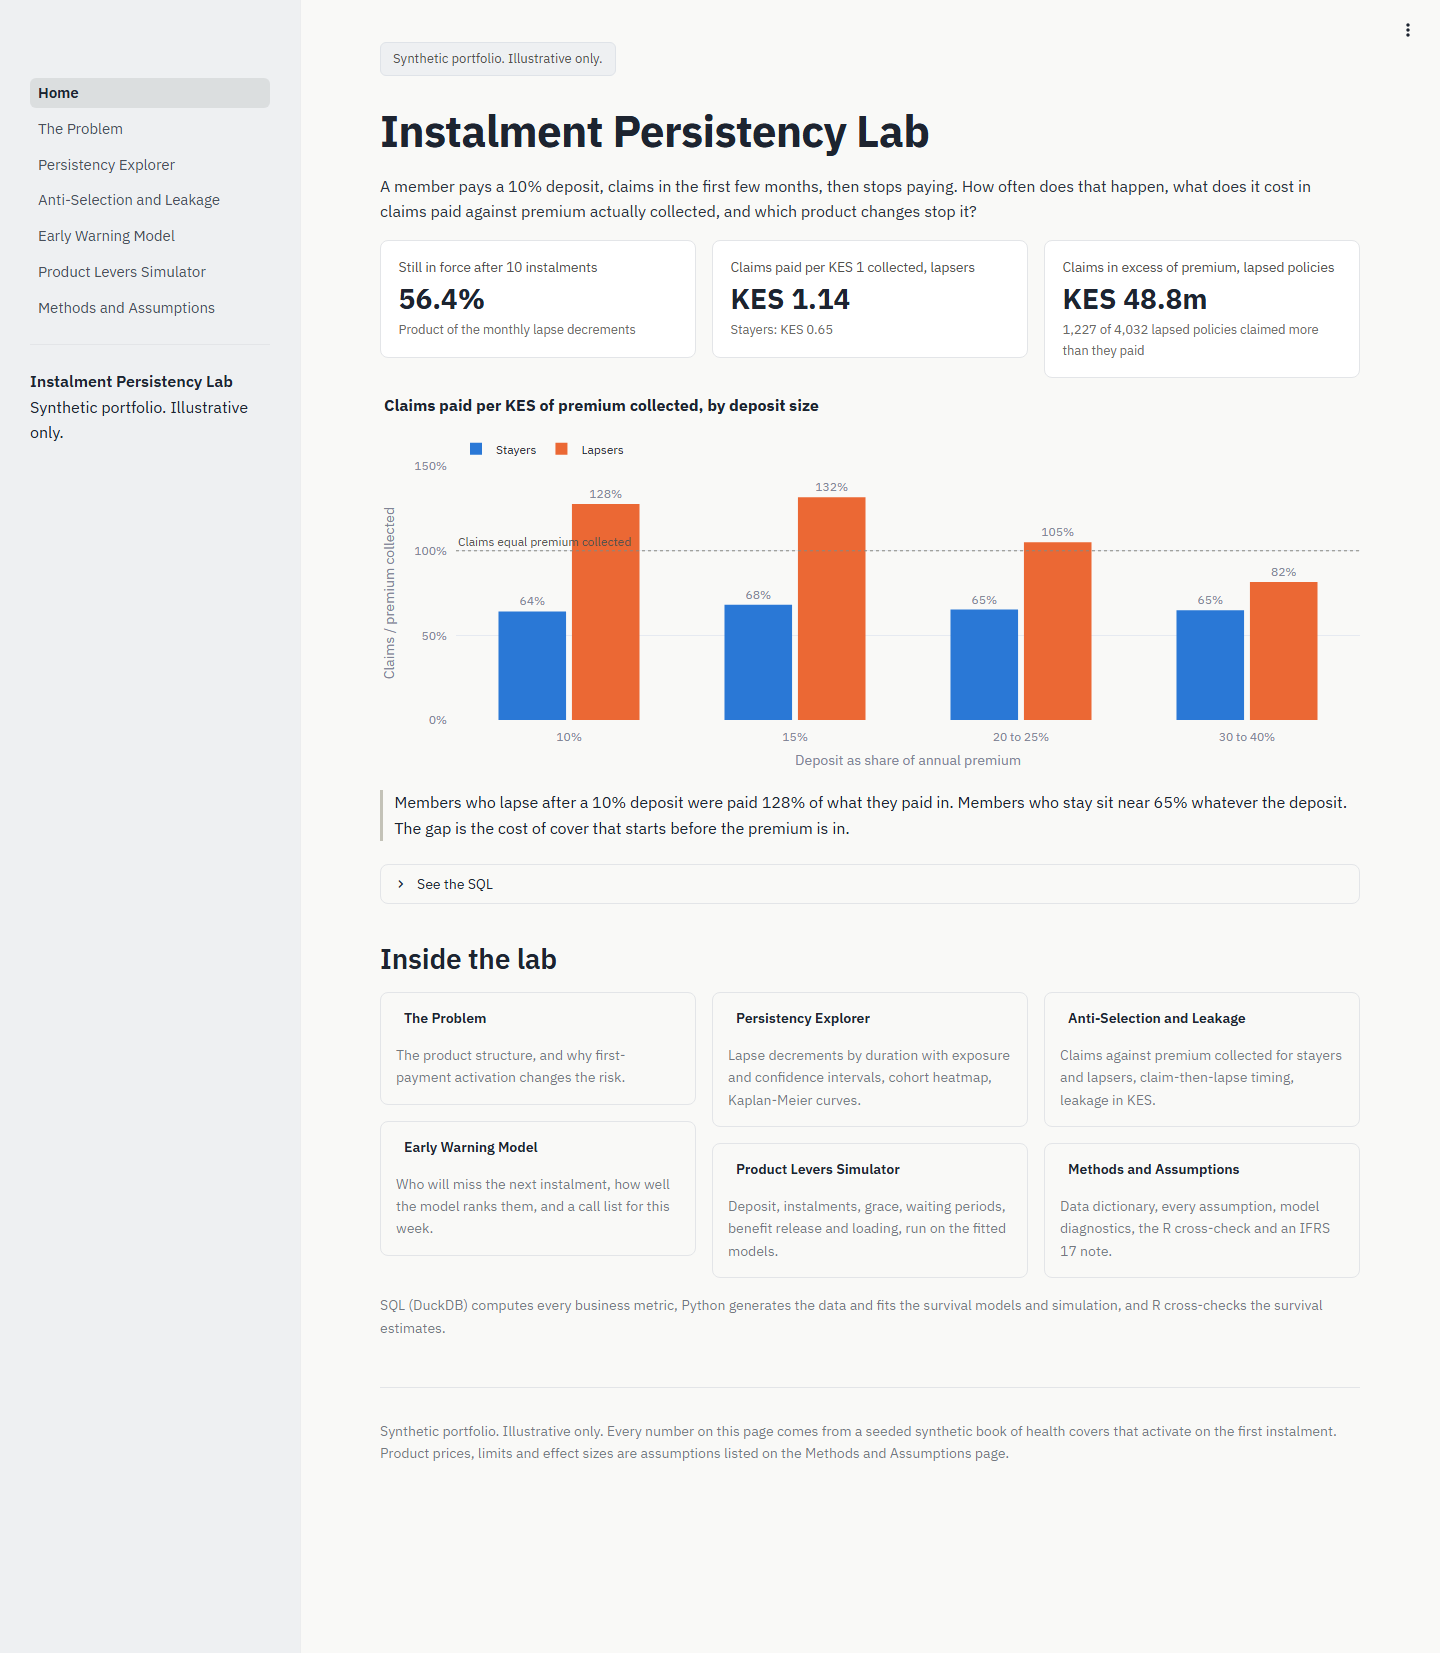
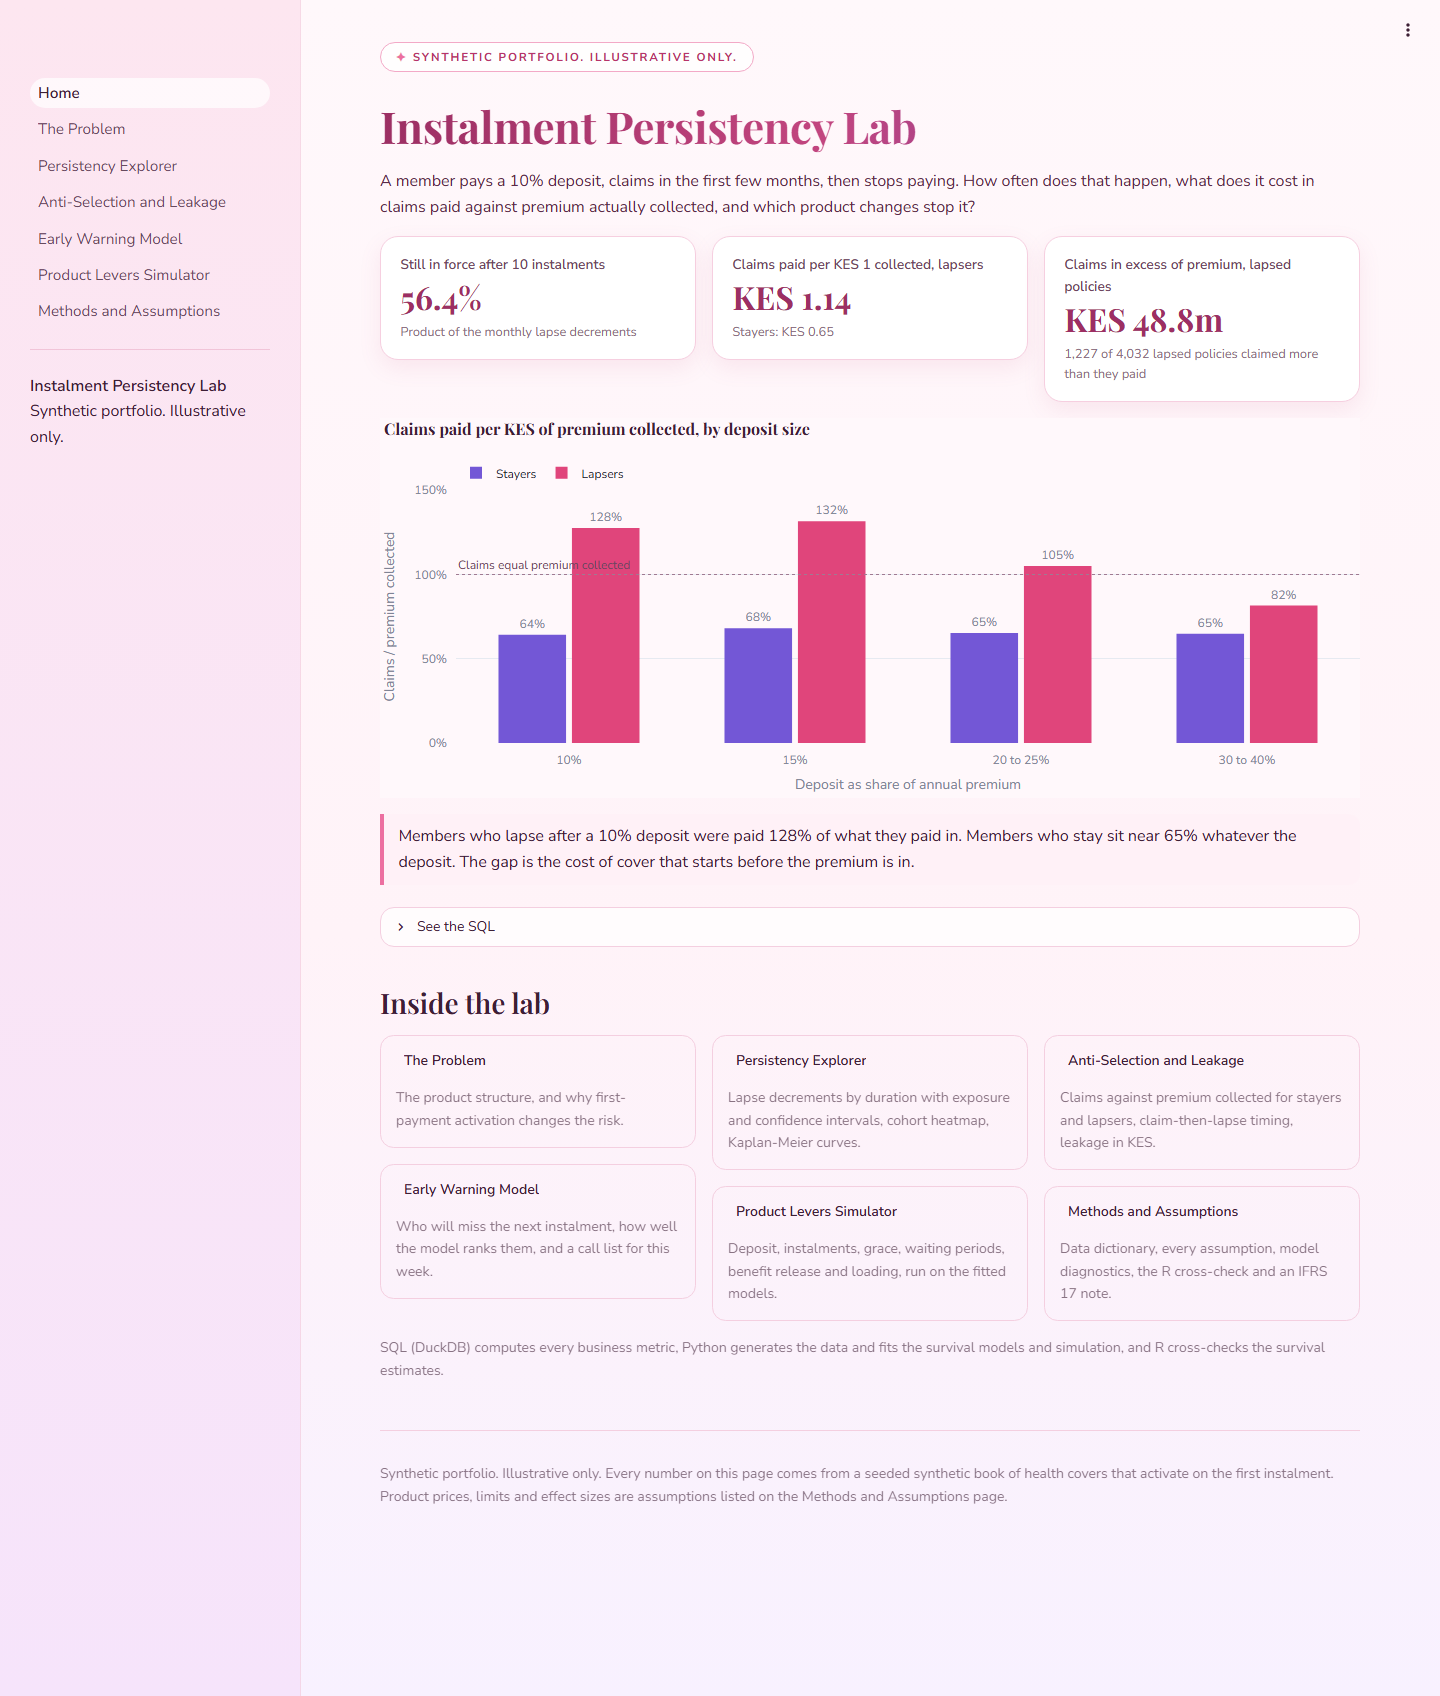
Restyle app in pink and lavender

diff --git a/src/ui.py b/src/ui.py
@@ -11,41 +11,63 @@ from src.generate import load_config
 
 SYNTHETIC_LABEL = "Synthetic portfolio. Illustrative only."
 
-# Neutral palette (validated categorical order, not any insurer's colours).
-INK = "#1d2430"
-INK_2 = "#52514e"
-MUTED = "#898781"
-GRID = "#e1e0d9"
-AXIS = "#c3c2b7"
-SURFACE = "#fcfcfb"
-BLUE = "#2a78d6"  # stayers, base case, observed
-ORANGE = "#eb6834"  # lapsers, scenario, risk
-AQUA = "#1baf7a"
-YELLOW = "#eda100"
-VIOLET = "#6250d6"
-SERIES = [BLUE, ORANGE, AQUA, YELLOW, "#e87ba4", "#008300", VIOLET, "#e34948"]
-SEQ_BLUE = ["#cde2fb", "#9ec5f4", "#6da7ec", "#3987e5", "#256abf", "#184f95", "#0d366b"]
-SEQ_SCALE = [[i / (len(SEQ_BLUE) - 1), c] for i, c in enumerate(SEQ_BLUE)]
+# Pink and lavender palette. Categorical order validated for colour-blind separation and contrast.
+INK = "#3d1f35"
+INK_2 = "#6d4560"
+MUTED = "#a07a92"
+GRID = "#f6dce8"
+AXIS = "#e9bfd3"
+SURFACE = "#fffafc"
+PRIMARY = "#7357d6"  # violet: stayers, base case, observed
+ACCENT = "#e0457b"  # rose: lapsers, scenario, risk
+APRICOT = "#d97a1e"
+TEAL = "#00998a"
+ORCHID = "#b44fc0"
+SERIES = [PRIMARY, ACCENT, APRICOT, TEAL, ORCHID]
+SEQ_PINK = ["#fde7f0", "#f9c4da", "#f29abd", "#e46a9c", "#c94882", "#9c2f63", "#6b1f45"]
+SEQ_SCALE = [[i / (len(SEQ_PINK) - 1), c] for i, c in enumerate(SEQ_PINK)]
+HIGHLIGHT_ROW = "#fde7f0"
+
+
+def rgba(hex_color: str, alpha: float) -> str:
+    h = hex_color.lstrip("#")
+    return f"rgba({int(h[0:2], 16)},{int(h[2:4], 16)},{int(h[4:6], 16)},{alpha})"
+
 
 _CSS = """
 <style>
+  .stApp {background: linear-gradient(180deg, #fff8fb 0%, #fff3f8 55%, #f8f1ff 100%);}
   header[data-testid="stHeader"] {background: transparent; height: 2.5rem;}
   .block-container {padding-top: 1.6rem; padding-bottom: 3rem; max-width: 1180px;}
-  h1 {font-weight: 600; letter-spacing: -0.015em; font-size: 2.1rem; padding-top: 0.2rem; padding-bottom: 0.3rem;}
-  h2, h3 {font-weight: 600; letter-spacing: -0.005em;}
+  h1 {font-weight: 700; letter-spacing: -0.01em; font-size: 2.5rem; padding-top: 0.2rem; padding-bottom: 0.35rem;
+      background: linear-gradient(90deg, #9c2f63 0%, #c2457f 45%, #6b3fa0 100%);
+      -webkit-background-clip: text; background-clip: text; color: transparent !important;}
+  h2, h3 {font-weight: 600; color: #7a2d5a;}
   [data-testid="stMarkdownContainer"] h3 {padding-top: 1.4rem;}
-  [data-testid="stSidebarNav"] a span {font-size: 0.93rem;}
-  .synthetic-banner {font-size: 0.82rem; color: #52514e; background: #eef0f2; border: 1px solid #dfe3e8;
-      border-radius: 6px; padding: 0.35rem 0.75rem; display: inline-block; margin-bottom: 0.6rem;}
-  .takeaway {color: #1d2430; font-size: 0.95rem; margin: -0.4rem 0 1.4rem 0; padding-left: 0.7rem;
-      border-left: 3px solid #c3c2b7;}
-  .kpi {background: #ffffff; border: 1px solid #e3e5e8; border-radius: 8px; padding: 1rem 1.1rem; height: 100%;}
-  .kpi .label {color: #52514e; font-size: 0.85rem; margin-bottom: 0.25rem;}
-  .kpi .value {color: #1d2430; font-size: 1.75rem; font-weight: 650; line-height: 1.15; white-space: nowrap;}
-  .kpi .note {color: #6b6a66; font-size: 0.8rem; margin-top: 0.35rem;}
-  .lede {font-size: 1.05rem; color: #2b3340; line-height: 1.55; max-width: 60rem;}
+  [data-testid="stSidebar"] {background: linear-gradient(180deg, #fde6f0 0%, #f6e4fb 100%);}
+  [data-testid="stSidebarNav"] a span {font-size: 0.95rem;}
+  [data-testid="stSidebarNav"] a[aria-current="page"] {background: #ffffffb3; border-radius: 999px;}
+  .sidebar-brand {font-family: 'Playfair Display', Georgia, serif; font-size: 1.15rem; font-weight: 700; color: #9c2f63;}
+  .sidebar-note {font-size: 0.82rem; color: #6d4560;}
+  .synthetic-banner {font-size: 0.72rem; letter-spacing: 0.16em; text-transform: uppercase; font-weight: 700;
+      color: #b8336a; background: #ffffffcc; border: 1px solid #f3a9c7; border-radius: 999px;
+      padding: 0.32rem 0.95rem; display: inline-block; margin-bottom: 0.5rem;}
+  .synthetic-banner::before {content: "\\2726"; color: #ec6fa0; margin-right: 0.45rem; letter-spacing: 0;}
+  .takeaway {color: #3d1f35; font-size: 0.97rem; margin: -0.3rem 0 1.4rem 0; padding: 0.6rem 0.9rem;
+      border-left: 4px solid #ec6fa0; background: #fff0f6cc; border-radius: 0 12px 12px 0;}
+  .kpi {background: #ffffff; border: 1px solid #f6cfe0; border-radius: 18px; padding: 1.05rem 1.2rem; height: 100%;
+      box-shadow: 0 8px 22px rgba(194, 84, 127, 0.10);}
+  .kpi .label {color: #6d4560; font-size: 0.86rem; margin-bottom: 0.2rem; font-weight: 600;}
+  .kpi .value {font-family: 'Playfair Display', Georgia, serif; color: #9c2f63; font-size: 2rem; font-weight: 700;
+      line-height: 1.15; white-space: nowrap;}
+  .kpi .note {color: #8a6a80; font-size: 0.8rem; margin-top: 0.35rem;}
+  .lede {font-size: 1.07rem; color: #5b2a48; line-height: 1.6; max-width: 62rem;}
+  [data-testid="stExpander"] details {background: #ffffffb3; border-radius: 14px;}
+  [data-testid="stVerticalBlockBorderWrapper"] {background: #ffffffb3;}
+  .stButton button, .stFormSubmitButton button, .stDownloadButton button {border-radius: 999px; padding-left: 1.2rem; padding-right: 1.2rem;}
+  [data-baseweb="tab-list"] button[aria-selected="true"] p {color: #b8336a; font-weight: 700;}
   [data-testid="stMetricValue"] {font-size: 1.6rem;}
-  @media (max-width: 640px) { .kpi .value {font-size: 1.5rem;} h1 {font-size: 1.6rem;} }
+  @media (max-width: 640px) { .kpi .value {font-size: 1.6rem;} h1 {font-size: 1.9rem;} }
 </style>
 """
 
@@ -53,7 +75,7 @@ _CSS = """
 def _register_template() -> None:
     t = go.layout.Template()
     t.layout = go.Layout(
-        font=dict(family="IBM Plex Sans, system-ui, -apple-system, Segoe UI, sans-serif", size=13, color=INK),
+        font=dict(family="Nunito Sans, system-ui, -apple-system, Segoe UI, sans-serif", size=13, color=INK),
         paper_bgcolor="rgba(0,0,0,0)",
         plot_bgcolor=SURFACE,
         colorway=SERIES,
@@ -61,8 +83,8 @@ def _register_template() -> None:
         xaxis=dict(gridcolor=GRID, linecolor=AXIS, zeroline=False, ticks="", title_font=dict(color=INK_2, size=12)),
         yaxis=dict(gridcolor=GRID, linecolor=AXIS, zeroline=False, ticks="", title_font=dict(color=INK_2, size=12)),
         legend=dict(orientation="h", yanchor="bottom", y=1.01, x=0, title_text="", font=dict(size=12)),
-        hoverlabel=dict(bgcolor="white", font_size=12, bordercolor=AXIS),
-        title=dict(font=dict(size=14, color=INK), x=0, xanchor="left", y=0.985, yanchor="top", yref="container"),
+        hoverlabel=dict(bgcolor="white", font_size=12, bordercolor=ACCENT),
+        title=dict(font=dict(size=15, color="#7a2d5a", family="Playfair Display, Georgia, serif"), x=0, xanchor="left", y=0.985, yanchor="top", yref="container"),
     )
     pio.templates["lab"] = t
     pio.templates.default = "lab"
@@ -144,7 +166,7 @@ def plot(fig, height: int = 380) -> None:
 def ctc_by_deposit_figure(band) -> go.Figure:
     """Claims per KES collected, stayers against lapsers, by deposit band (rows from v_claims_to_collected)."""
     fig = go.Figure()
-    for grp, color in [("Stayer", BLUE), ("Lapser", ORANGE)]:
+    for grp, color in [("Stayer", PRIMARY), ("Lapser", ACCENT)]:
         d = band[band["persistency_group"] == grp]
         fig.add_trace(go.Bar(x=d["deposit_band"], y=d["claims_to_collected"], name=f"{grp}s", marker_color=color,
                              text=[pct(v, 0) for v in d["claims_to_collected"]], textposition="outside",

diff --git a/pages/3_Anti_Selection_and_Leakage.py b/pages/3_Anti_Selection_and_Leakage.py
@@ -54,9 +54,9 @@ with tabs[0]:
     """
     dur = ui.q(DUR_SQL)
     fig = go.Figure()
-    fig.add_trace(go.Bar(x=dur["lapse_duration"], y=dur["avg_collected_kes"], name="Premium collected per policy", marker_color=ui.BLUE,
+    fig.add_trace(go.Bar(x=dur["lapse_duration"], y=dur["avg_collected_kes"], name="Premium collected per policy", marker_color=ui.PRIMARY,
                          hovertemplate="Lapsed at instalment %{x}<br>Collected KES %{y:,.0f}<extra></extra>"))
-    fig.add_trace(go.Bar(x=dur["lapse_duration"], y=dur["avg_claims_kes"], name="Claims paid per policy", marker_color=ui.ORANGE,
+    fig.add_trace(go.Bar(x=dur["lapse_duration"], y=dur["avg_claims_kes"], name="Claims paid per policy", marker_color=ui.ACCENT,
                          hovertemplate="Lapsed at instalment %{x}<br>Claims KES %{y:,.0f}<extra></extra>"))
     fig.update_layout(barmode="group", bargap=0.3, bargroupgap=0.08)
     fig.update_yaxes(title="KES per lapsed policy", tickformat=",.0f")
@@ -75,7 +75,7 @@ with tabs[1]:
     nxt = ui.q(NEXT_SQL).set_index("claim_history")
     with left:
         fig = go.Figure()
-        for metric, name, color in [("missed_due_date_rate", "Missed the due date", ui.BLUE), ("lapse_rate", "Lapsed on that instalment", ui.ORANGE)]:
+        for metric, name, color in [("missed_due_date_rate", "Missed the due date", ui.PRIMARY), ("lapse_rate", "Lapsed on that instalment", ui.ACCENT)]:
             fig.add_trace(go.Bar(x=nxt.index, y=nxt[metric], name=name, marker_color=color, text=[ui.pct(v) for v in nxt[metric]],
                                  textposition="outside", hovertemplate="%{x}<br>" + name + ": %{y:.1%}<extra></extra>"))
         fig.update_layout(barmode="group", bargap=0.35, bargroupgap=0.08, title="The next instalment after a large claim")
@@ -95,7 +95,7 @@ with tabs[1]:
     tim = ui.q(TIMING_SQL)
     with right:
         fig = go.Figure(go.Histogram(x=tim["days_claim_to_lapse"], xbins=dict(start=0, end=tim["days_claim_to_lapse"].max() + 15, size=15),
-                                     marker=dict(color=ui.ORANGE, line=dict(color=ui.SURFACE, width=2)),
+                                     marker=dict(color=ui.ACCENT, line=dict(color=ui.SURFACE, width=2)),
                                      hovertemplate="%{x} days<br>%{y} policies<extra></extra>"))
         fig.update_layout(title="Days from last large claim payment to lapse", bargap=0.05)
         fig.update_xaxes(title="Days")
@@ -112,9 +112,9 @@ with tabs[2]:
     EARLY_SQL = "SELECT deposit_band, early_freq_per_unit, later_freq_per_unit FROM v_early_claims_by_deposit"
     early = ui.q(EARLY_SQL)
     fig = go.Figure()
-    fig.add_trace(go.Bar(x=early["deposit_band"], y=early["early_freq_per_unit"], name="Cover months 1 to 3", marker_color=ui.ORANGE,
+    fig.add_trace(go.Bar(x=early["deposit_band"], y=early["early_freq_per_unit"], name="Cover months 1 to 3", marker_color=ui.ACCENT,
                          hovertemplate="Deposit %{x}<br>%{y:.3f} claims per member-month<extra></extra>"))
-    fig.add_trace(go.Bar(x=early["deposit_band"], y=early["later_freq_per_unit"], name="Cover months 4 to 10", marker_color=ui.BLUE,
+    fig.add_trace(go.Bar(x=early["deposit_band"], y=early["later_freq_per_unit"], name="Cover months 4 to 10", marker_color=ui.PRIMARY,
                          hovertemplate="Deposit %{x}<br>%{y:.3f} claims per member-month<extra></extra>"))
     fig.update_layout(barmode="group", bargap=0.35, bargroupgap=0.08, title="Outpatient and inpatient claim frequency per member-month")
     fig.update_yaxes(title="Claims per member-month", rangemode="tozero")
@@ -145,7 +145,7 @@ with tabs[3]:
     seg = ui.q(SEG_SQL)
     total_leak = seg["leakage_kes"].sum()
     fig = go.Figure(go.Bar(
-        y=seg["segment"], x=seg["leakage_share_of_written"], orientation="h", marker_color=ui.ORANGE,
+        y=seg["segment"], x=seg["leakage_share_of_written"], orientation="h", marker_color=ui.ACCENT,
         text=[f"{ui.pct(v)}  ({ui.kes(k, short=True)})" for v, k in zip(seg["leakage_share_of_written"], seg["leakage_kes"])],
         textposition="outside", customdata=seg[["leakage_kes", "lapsed_policies", "share_leaking"]],
         hovertemplate="%{y}<br>Leakage %{x:.1%} of written premium<br>KES %{customdata[0]:,.0f}<br>"

diff --git a/pages/5_Product_Levers_Simulator.py b/pages/5_Product_Levers_Simulator.py
@@ -147,9 +147,9 @@ left, right = st.columns(2)
 with left:
     t = np.arange(1, 11)
     fig = go.Figure()
-    fig.add_trace(go.Scatter(x=t, y=b["persistency"], name="Base case", mode="lines+markers", line=dict(color=ui.BLUE, width=2), marker=dict(size=8),
+    fig.add_trace(go.Scatter(x=t, y=b["persistency"], name="Base case", mode="lines+markers", line=dict(color=ui.PRIMARY, width=2), marker=dict(size=8),
                              hovertemplate="Base, instalment %{x}: %{y:.1%}<extra></extra>"))
-    fig.add_trace(go.Scatter(x=t, y=s["persistency"], name="Scenario", mode="lines+markers", line=dict(color=ui.ORANGE, width=2), marker=dict(size=8),
+    fig.add_trace(go.Scatter(x=t, y=s["persistency"], name="Scenario", mode="lines+markers", line=dict(color=ui.ACCENT, width=2), marker=dict(size=8),
                              hovertemplate="Scenario, instalment %{x}: %{y:.1%}<extra></extra>"))
     fig.update_yaxes(tickformat=".0%", title="Share still in force", range=[0, 1.02])
     fig.update_xaxes(title="Policy month (instalment number)", dtick=1)
@@ -161,8 +161,8 @@ with right:
     vals_b = [b["collected_per_policy"], b["claims_per_policy"], inp.expense_ratio * b["collected_per_policy"], b["margin_per_policy"]]
     vals_s = [s["collected_per_policy"], s["claims_per_policy"], inp.expense_ratio * s["collected_per_policy"], s["margin_per_policy"]]
     fig = go.Figure()
-    fig.add_trace(go.Bar(x=cats, y=vals_b, name="Base case", marker_color=ui.BLUE, hovertemplate="Base, %{x}: KES %{y:,.0f}<extra></extra>"))
-    fig.add_trace(go.Bar(x=cats, y=vals_s, name="Scenario", marker_color=ui.ORANGE, hovertemplate="Scenario, %{x}: KES %{y:,.0f}<extra></extra>"))
+    fig.add_trace(go.Bar(x=cats, y=vals_b, name="Base case", marker_color=ui.PRIMARY, hovertemplate="Base, %{x}: KES %{y:,.0f}<extra></extra>"))
+    fig.add_trace(go.Bar(x=cats, y=vals_s, name="Scenario", marker_color=ui.ACCENT, hovertemplate="Scenario, %{x}: KES %{y:,.0f}<extra></extra>"))
     fig.update_layout(barmode="group", bargap=0.3, bargroupgap=0.08, title="Per policy written, KES")
     fig.update_yaxes(tickformat=",.0f", title="KES per policy")
     ui.plot(fig, 360)
@@ -175,7 +175,7 @@ with st.spinner("Tracing the deposit curve..."):
 dc["signups"] = [SM.signup_factor(d, BASE.deposit, elasticity) for d in dc["deposit"]]
 dc["book_margin"] = nb * dc["signups"] * dc["margin_per_policy"]
 fig = go.Figure()
-fig.add_trace(go.Scatter(x=dc["deposit"], y=dc["book_margin"], mode="lines+markers", name="Annual book margin", line=dict(color=ui.BLUE, width=2),
+fig.add_trace(go.Scatter(x=dc["deposit"], y=dc["book_margin"], mode="lines+markers", name="Annual book margin", line=dict(color=ui.PRIMARY, width=2),
                          marker=dict(size=8), customdata=dc[["signups", "margin_per_policy"]],
                          hovertemplate="Deposit %{x:.0%}<br>Book margin KES %{y:,.0f}<br>Sign-ups %{customdata[0]:.0%} of base<br>"
                                        "Margin per policy KES %{customdata[1]:,.0f}<extra></extra>"))

diff --git a/pages/4_Early_Warning_Model.py b/pages/4_Early_Warning_Model.py
@@ -50,7 +50,7 @@ with left:
     fig = go.Figure()
     mx = max(ew.calibration[n][["mean_predicted", "observed"]].max().max() for n in ew.calibration) * 1.08
     fig.add_trace(go.Scatter(x=[0, mx], y=[0, mx], mode="lines", line=dict(color=ui.MUTED, width=1, dash="dot"), name="Perfect calibration", hoverinfo="skip"))
-    for name, color in [("Logistic regression", ui.BLUE), ("Gradient boosting", ui.ORANGE)]:
+    for name, color in [("Logistic regression", ui.PRIMARY), ("Gradient boosting", ui.ACCENT)]:
         cb = ew.calibration[name]
         fig.add_trace(go.Scatter(x=cb["mean_predicted"], y=cb["observed"], mode="lines+markers", name=name, line=dict(color=color, width=2),
                                  marker=dict(size=8), hovertemplate=name + "<br>Predicted %{x:.1%}<br>Observed %{y:.1%}<extra></extra>"))
@@ -63,7 +63,7 @@ with left:
     ui.takeaway(f"In the riskiest tenth the {ew.chosen.lower()} predicts {ui.pct(top['mean_predicted'])} and {ui.pct(top['observed'])} actually missed.")
 with right:
     lt = ew.lift[ew.chosen]
-    fig = go.Figure(go.Bar(x=lt["decile"], y=lt["observed_rate"], marker_color=[ui.ORANGE if d <= 3 else ui.BLUE for d in lt["decile"]],
+    fig = go.Figure(go.Bar(x=lt["decile"], y=lt["observed_rate"], marker_color=[ui.ACCENT if d <= 3 else ui.PRIMARY for d in lt["decile"]],
                            customdata=lt[["lift", "members"]],
                            hovertemplate="Decile %{x}<br>Observed miss rate %{y:.1%}<br>Lift %{customdata[0]:.2f}x<br>%{customdata[1]:,} instalments<extra></extra>"))
     base = (lt["observed_rate"] * lt["members"]).sum() / lt["members"].sum()

diff --git a/pages/2_Persistency_Explorer.py b/pages/2_Persistency_Explorer.py
@@ -42,8 +42,8 @@ st.write("")
 fig = go.Figure()
 fig.add_trace(go.Scatter(x=dec["duration"], y=dec["q_upper_95"], mode="lines", line=dict(width=0), showlegend=False, hoverinfo="skip"))
 fig.add_trace(go.Scatter(x=dec["duration"], y=dec["q_lower_95"], mode="lines", line=dict(width=0), fill="tonexty",
-                         fillcolor="rgba(42,120,214,0.15)", name="95% CI", hoverinfo="skip"))
-fig.add_trace(go.Scatter(x=dec["duration"], y=dec["q"], mode="lines+markers", name="Crude q(t)", line=dict(color=ui.BLUE, width=2),
+                         fillcolor=ui.rgba(ui.PRIMARY, 0.15), name="95% CI", hoverinfo="skip"))
+fig.add_trace(go.Scatter(x=dec["duration"], y=dec["q"], mode="lines+markers", name="Crude q(t)", line=dict(color=ui.PRIMARY, width=2),
                          marker=dict(size=8), customdata=dec[["exposed", "lapses"]],
                          hovertemplate="Instalment %{x}<br>q = %{y:.1%}<br>Exposed %{customdata[0]:,.0f}, lapses %{customdata[1]:,.0f}<extra></extra>"))
 fig.update_yaxes(tickformat=".0%", title="Monthly lapse rate q(t)", rangemode="tozero")
@@ -71,7 +71,7 @@ with tabs[0]:
     })
     peak = int(worst["duration"])
     st.dataframe(
-        tbl.style.apply(lambda r: ["background-color: #fdf0ea" if r["Duration t"] == peak else "" for _ in r], axis=1),
+        tbl.style.apply(lambda r: [f"background-color: {ui.HIGHLIGHT_ROW}" if r["Duration t"] == peak else "" for _ in r], axis=1),
         hide_index=True, use_container_width=True,
         column_config={
             "Duration t": st.column_config.NumberColumn(help="The t-th monthly instalment after the deposit"),

diff --git a/pages/1_The_Problem.py b/pages/1_The_Problem.py
@@ -30,9 +30,9 @@ with right:
     paid = np.minimum(0.10 + 0.09 * months, 1.0)
     fig = go.Figure()
     fig.add_trace(go.Scatter(x=months, y=np.ones_like(months, dtype=float), name="Annual benefit limit available",
-                             mode="lines", line=dict(color=ui.ORANGE, width=2), hovertemplate="Month %{x}: 100% of limit<extra></extra>"))
+                             mode="lines", line=dict(color=ui.ACCENT, width=2), hovertemplate="Month %{x}: 100% of limit<extra></extra>"))
     fig.add_trace(go.Scatter(x=months, y=paid, name="Premium paid so far (10% deposit, 10 instalments)", mode="lines+markers",
-                             line=dict(color=ui.BLUE, width=2, shape="hv"), marker=dict(size=8),
+                             line=dict(color=ui.PRIMARY, width=2, shape="hv"), marker=dict(size=8),
                              hovertemplate="Month %{x}: %{y:.0%} of premium paid<extra></extra>"))
     fig.update_yaxes(tickformat=".0%", range=[0, 1.08], title="Share of annual amount")
     fig.update_xaxes(title="Policy month", dtick=1)
